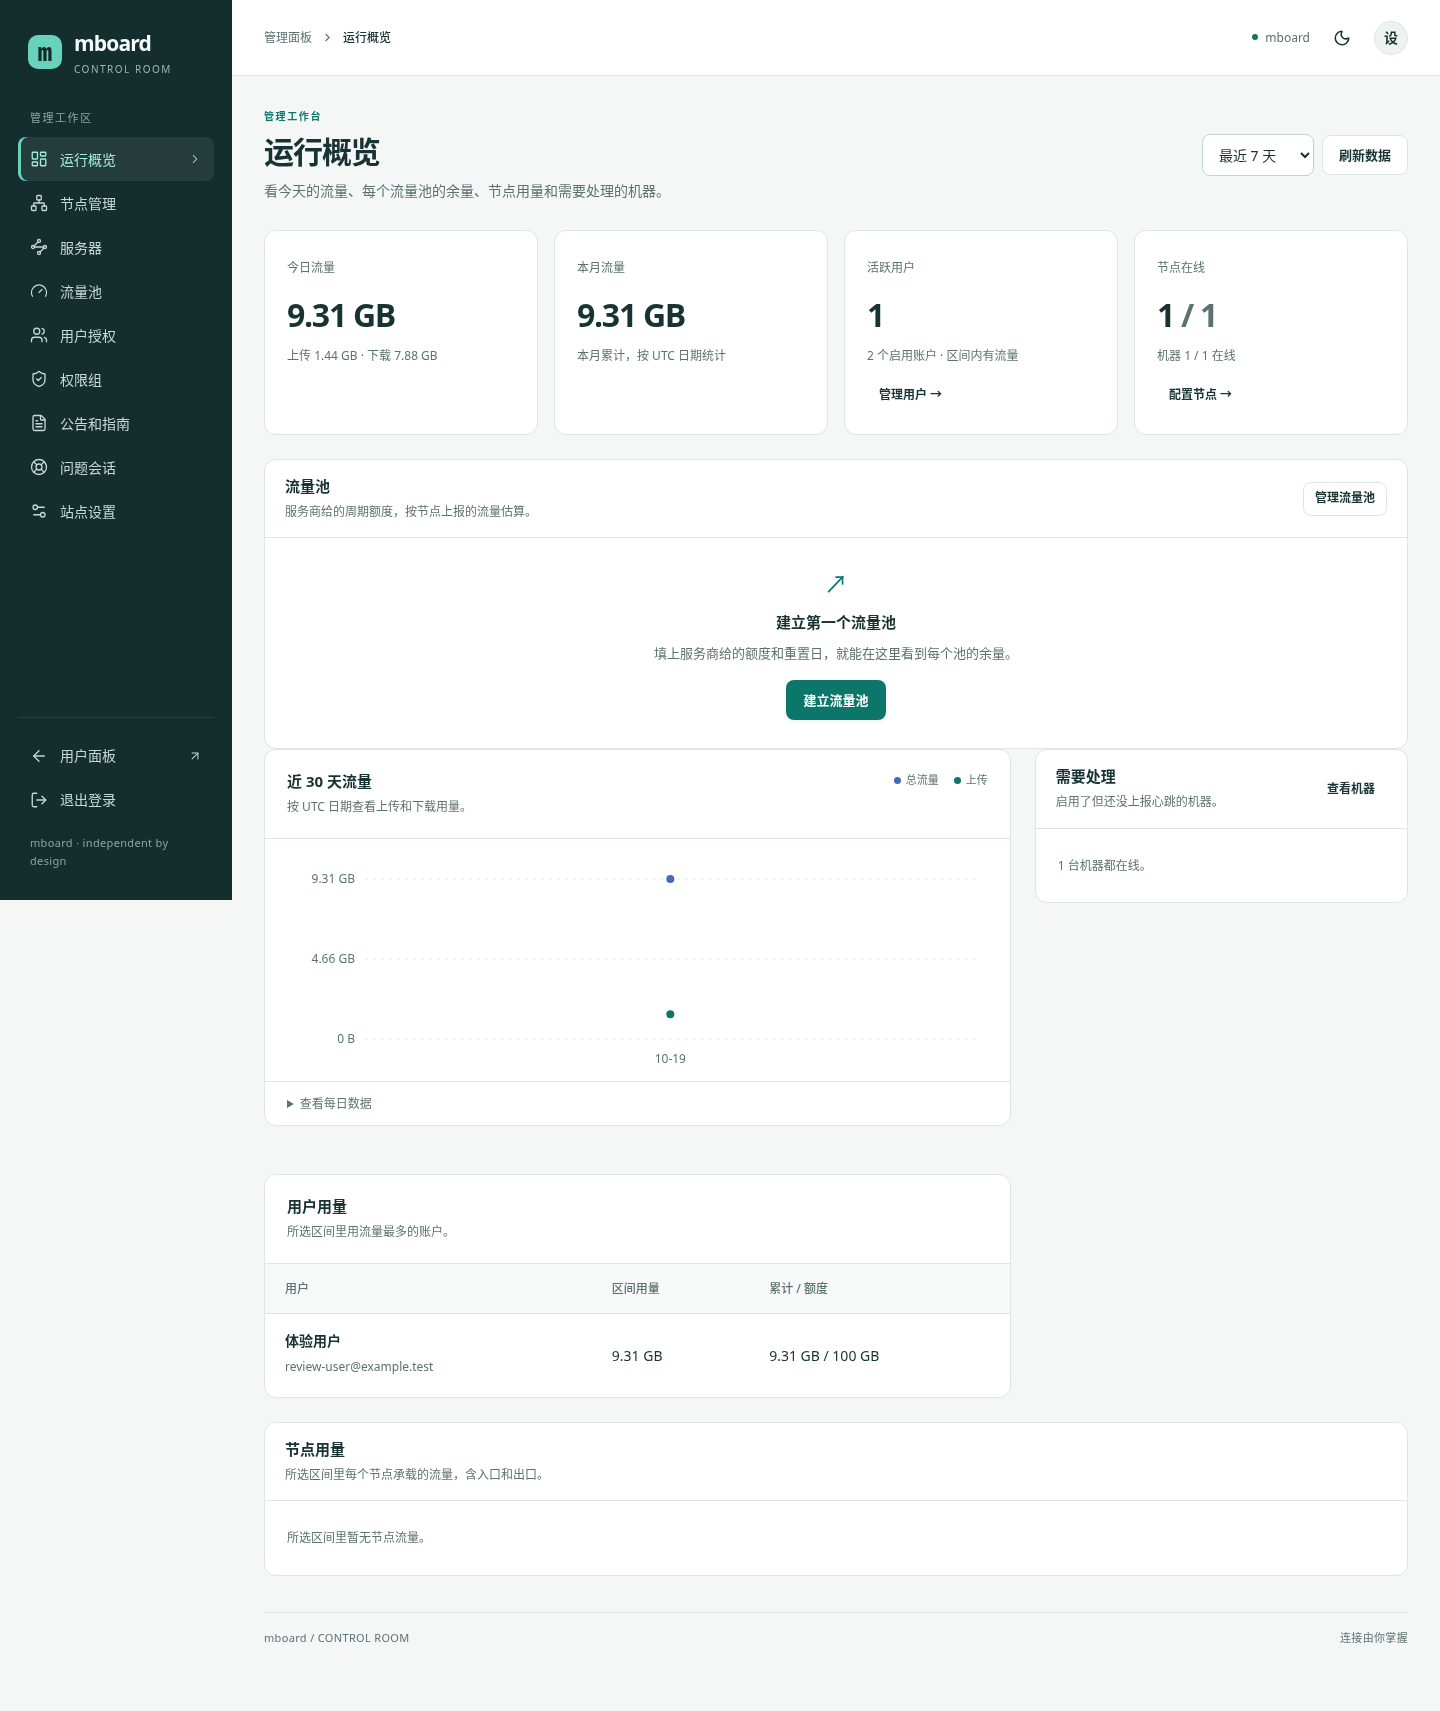
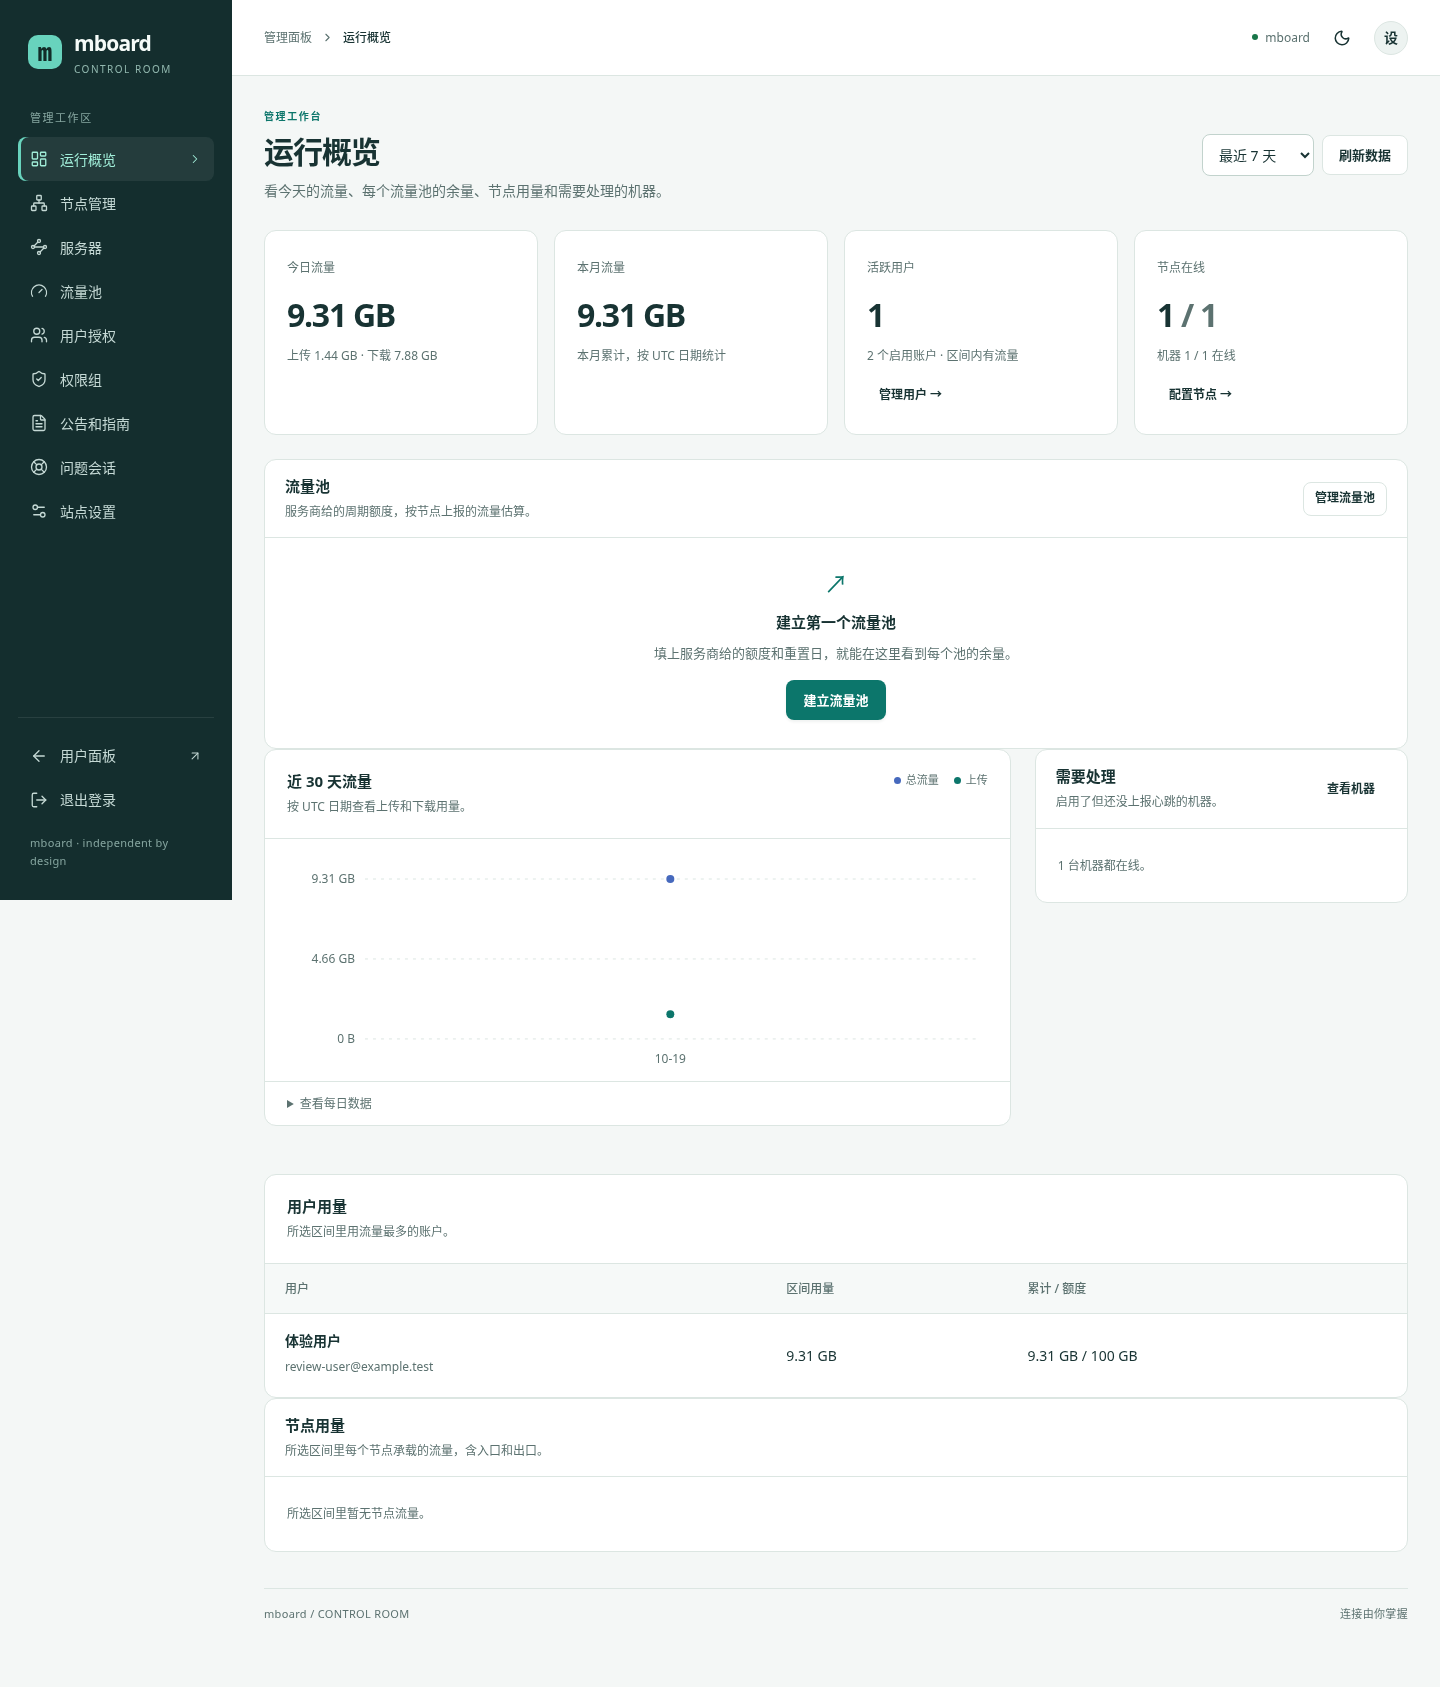
style: put the user ranking on its own row and settle the chart before checks
The admin overview keeps the chart beside the attention list and gives both
wide tables a full-width row, so no table is clipped by a half column. The
browser check now waits for the chart to re-measure after a viewport change
before it asserts label legibility.

diff --git a/src/web/AdminPages.tsx b/src/web/AdminPages.tsx
@@ -739,52 +739,6 @@ function OverviewPage({ onNavigate }: { onNavigate: (page: string) => void }) {
                   title="近 30 天流量"
                   description="按 UTC 日期查看上传和下载用量。"
                 />
-                <Card>
-                  <div className="card-header">
-                    <div>
-                      <h2>用户用量</h2>
-                      <p>所选区间里用流量最多的账户。</p>
-                    </div>
-                  </div>
-                  {data.top_users.length ? (
-                    <div className="table-wrap">
-                      <table className="data-table">
-                        <thead>
-                          <tr>
-                            <th>用户</th>
-                            <th>区间用量</th>
-                            <th>累计 / 额度</th>
-                          </tr>
-                        </thead>
-                        <tbody>
-                          {data.top_users.map((user) => (
-                            <tr key={user.id}>
-                              <td>
-                                <strong>{user.name}</strong>
-                                <div className="mb-custom-meta">
-                                  {user.email}
-                                </div>
-                              </td>
-                              <td>{formatBytes(user.bytes)}</td>
-                              <td>
-                                {formatBytes(user.total_bytes)}
-                                {user.quota_bytes > 0
-                                  ? ` / ${formatBytes(user.quota_bytes)}`
-                                  : " · 按实际用量累计"}
-                              </td>
-                            </tr>
-                          ))}
-                        </tbody>
-                      </table>
-                    </div>
-                  ) : (
-                    <div className="card-body">
-                      <p className="mb-custom-meta">
-                        所选区间里暂无账户流量。
-                      </p>
-                    </div>
-                  )}
-                </Card>
               </div>
               <div className="section-stack">
                 <Card>
@@ -833,6 +787,52 @@ function OverviewPage({ onNavigate }: { onNavigate: (page: string) => void }) {
                 </Card>
               </div>
             </div>
+            <Card>
+              <div className="card-header">
+                <div>
+                  <h2>用户用量</h2>
+                  <p>所选区间里用流量最多的账户。</p>
+                </div>
+              </div>
+              {data.top_users.length ? (
+                <div className="table-wrap">
+                  <table className="data-table">
+                    <thead>
+                      <tr>
+                        <th>用户</th>
+                        <th>区间用量</th>
+                        <th>累计 / 额度</th>
+                      </tr>
+                    </thead>
+                    <tbody>
+                      {data.top_users.map((user) => (
+                        <tr key={user.id}>
+                          <td>
+                            <strong>{user.name}</strong>
+                            <div className="mb-custom-meta">
+                              {user.email}
+                            </div>
+                          </td>
+                          <td>{formatBytes(user.bytes)}</td>
+                          <td>
+                            {formatBytes(user.total_bytes)}
+                            {user.quota_bytes > 0
+                              ? ` / ${formatBytes(user.quota_bytes)}`
+                              : " · 按实际用量累计"}
+                          </td>
+                        </tr>
+                      ))}
+                    </tbody>
+                  </table>
+                </div>
+              ) : (
+                <div className="card-body">
+                  <p className="mb-custom-meta">
+                    所选区间里暂无账户流量。
+                  </p>
+                </div>
+              )}
+            </Card>
             <Card>
               <div className="card-header mb-custom-toolbar">
                 <div>

diff --git a/src/web/TrafficChart.tsx b/src/web/TrafficChart.tsx
@@ -1,5 +1,4 @@
 import { useId, useLayoutEffect, useRef, useState } from "react";
-import { flushSync } from "react-dom";
 import type { TrafficPoint } from "./types";
 import { formatBytes } from "./api";
 import { Card, EmptyState } from "./ui";
@@ -29,9 +28,7 @@ export function TrafficChart({
     const measure = () =>
       setWidth(Math.max(240, Math.round(svg.getBoundingClientRect().width)));
     measure();
-    // Commit the new viewBox in the same frame as the resize, so labels never
-    // render one frame at a stale scale.
-    const observer = new ResizeObserver(() => flushSync(measure));
+    const observer = new ResizeObserver(measure);
     observer.observe(svg);
     return () => observer.disconnect();
   }, [Boolean(data.length)]);

diff --git a/tests/browser/workspace.spec.ts b/tests/browser/workspace.spec.ts
@@ -65,6 +65,21 @@ async function invariant(page: Page) {
     }),
   );
   expect(aligned).toBe(true);
+  // The chart sets its viewBox one frame after a resize; wait for that frame so
+  // the label-size check measures the settled layout.
+  await expect
+    .poll(() =>
+      page.evaluate(() =>
+        Array.from(document.querySelectorAll(".traffic-chart svg")).every(
+          (svg) =>
+            Math.abs(
+              svg.clientWidth -
+                Number((svg.getAttribute("viewBox") || "0 0 0 0").split(" ")[2]),
+            ) <= 1,
+        ),
+      ),
+    )
+    .toBe(true);
   const chartLegible = await page.evaluate(() =>
     Array.from(
       document.querySelectorAll<SVGTextElement>(".traffic-chart text"),
